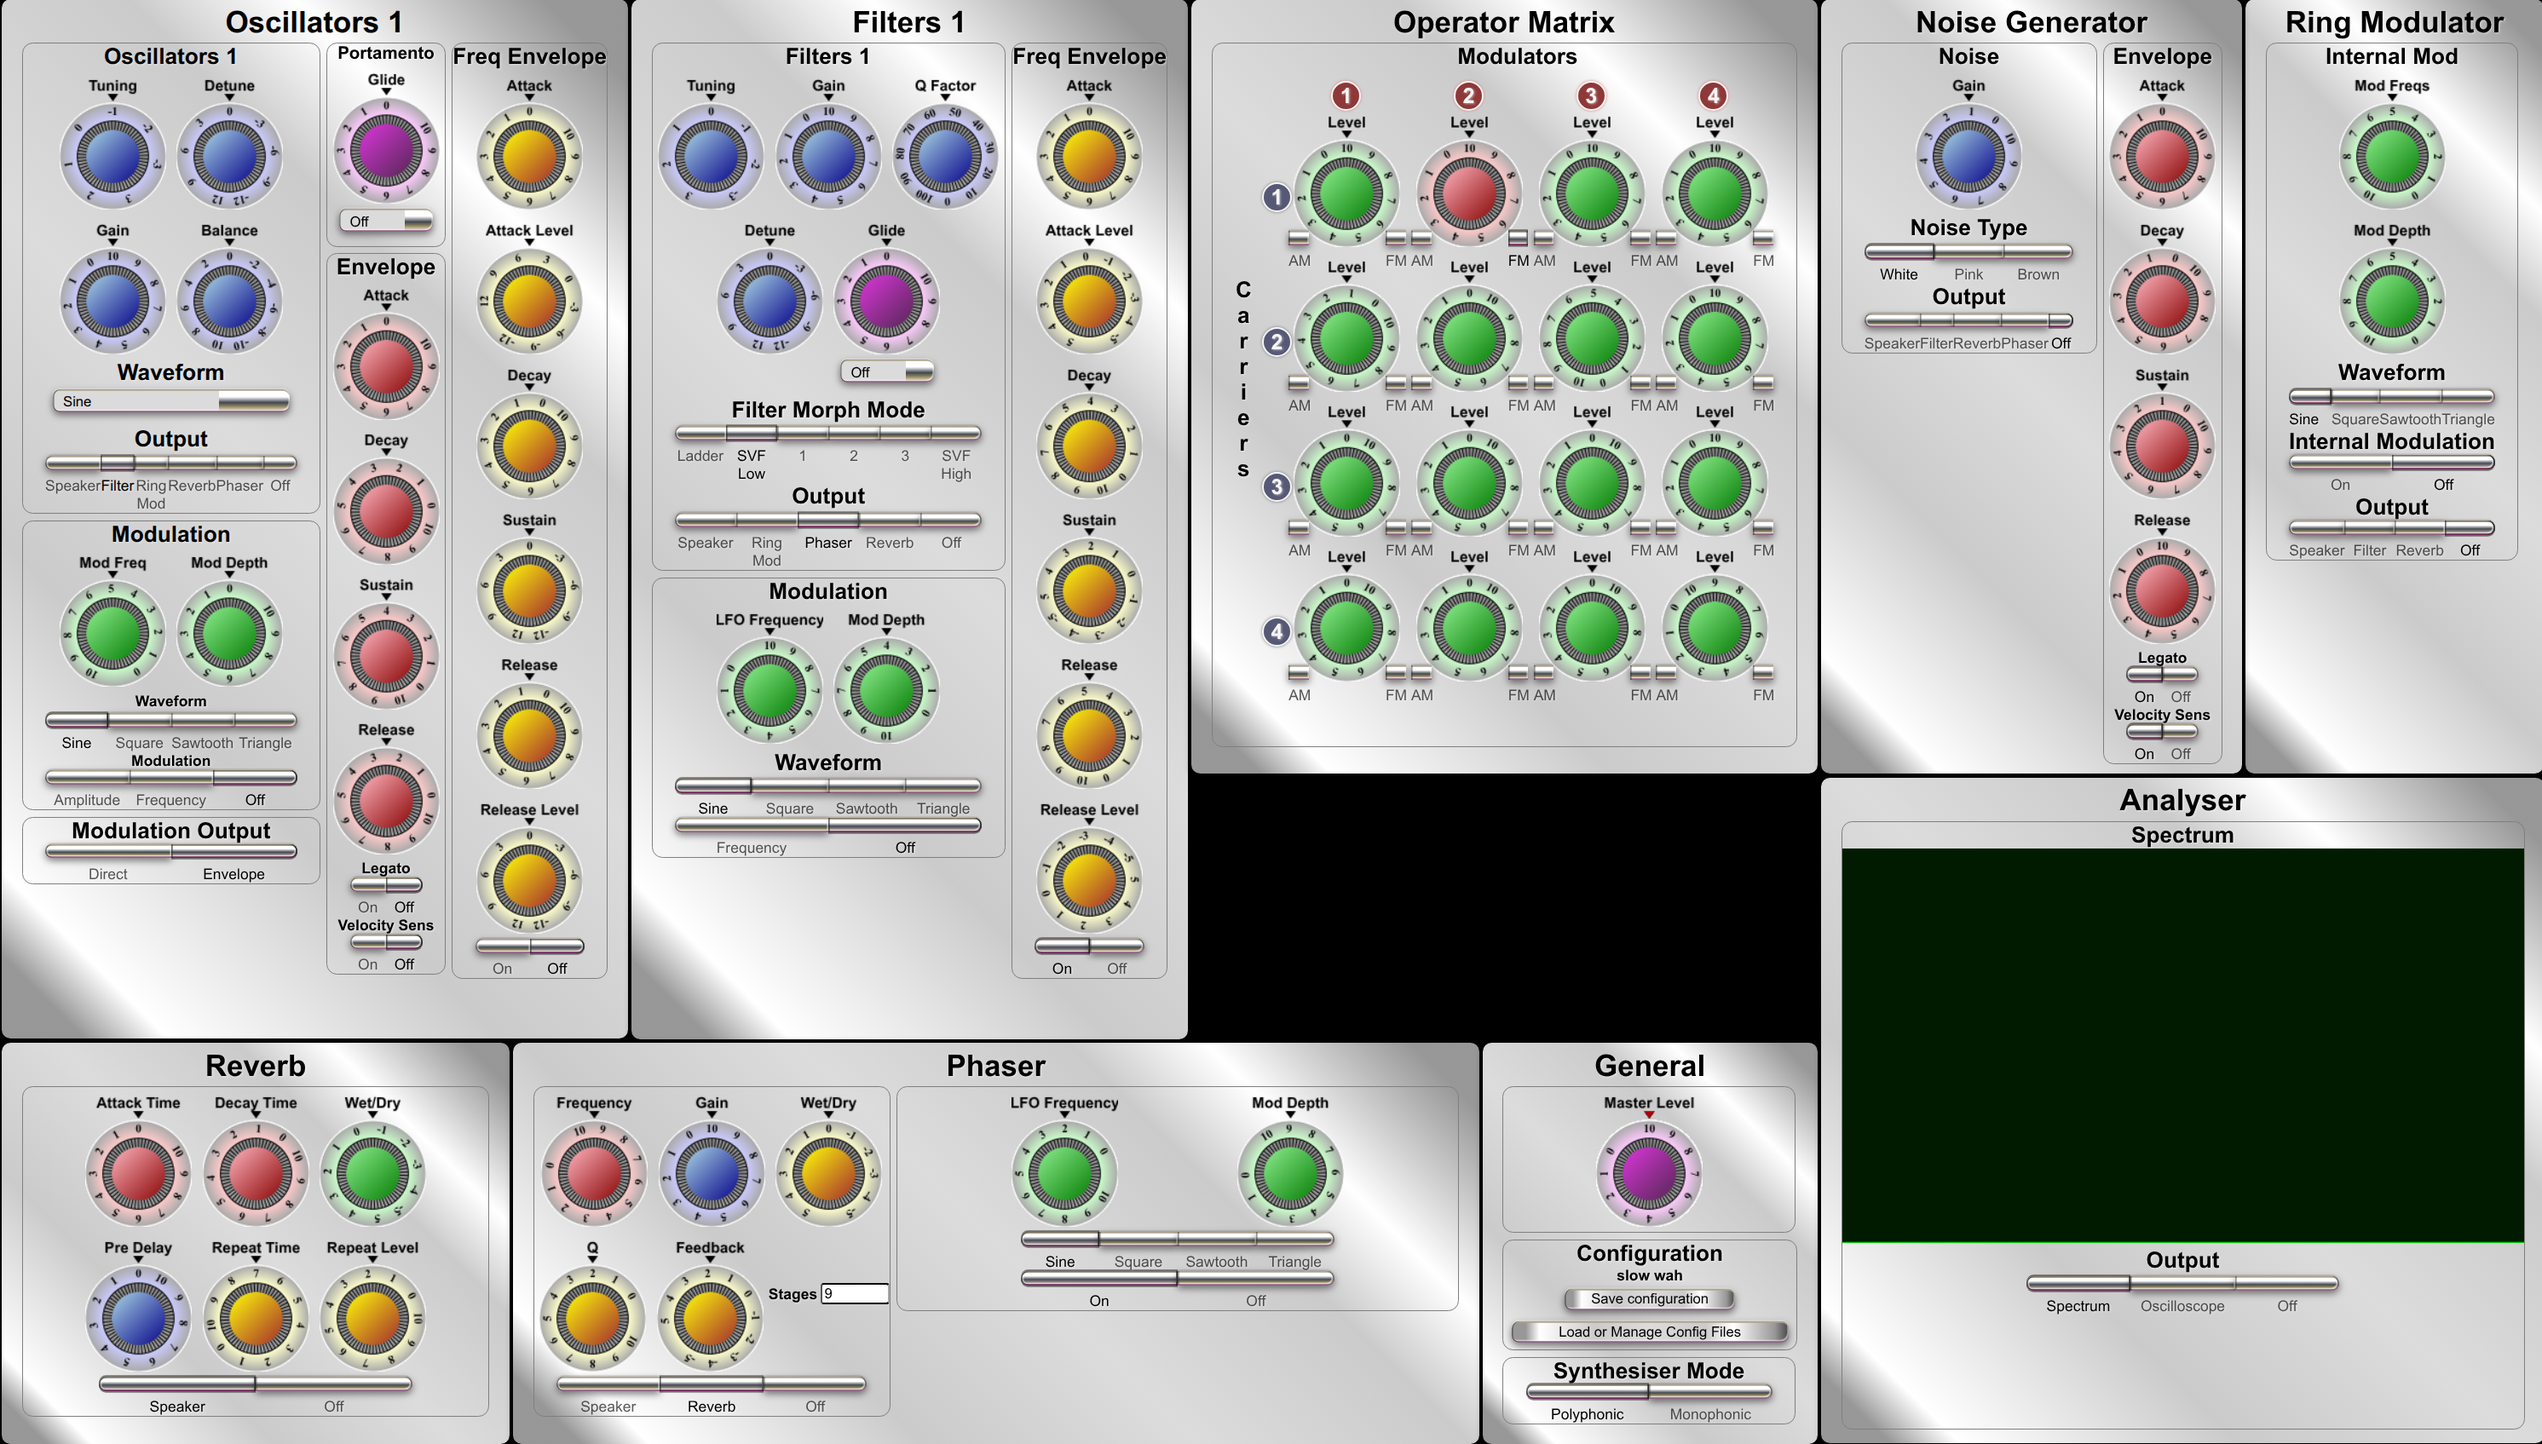
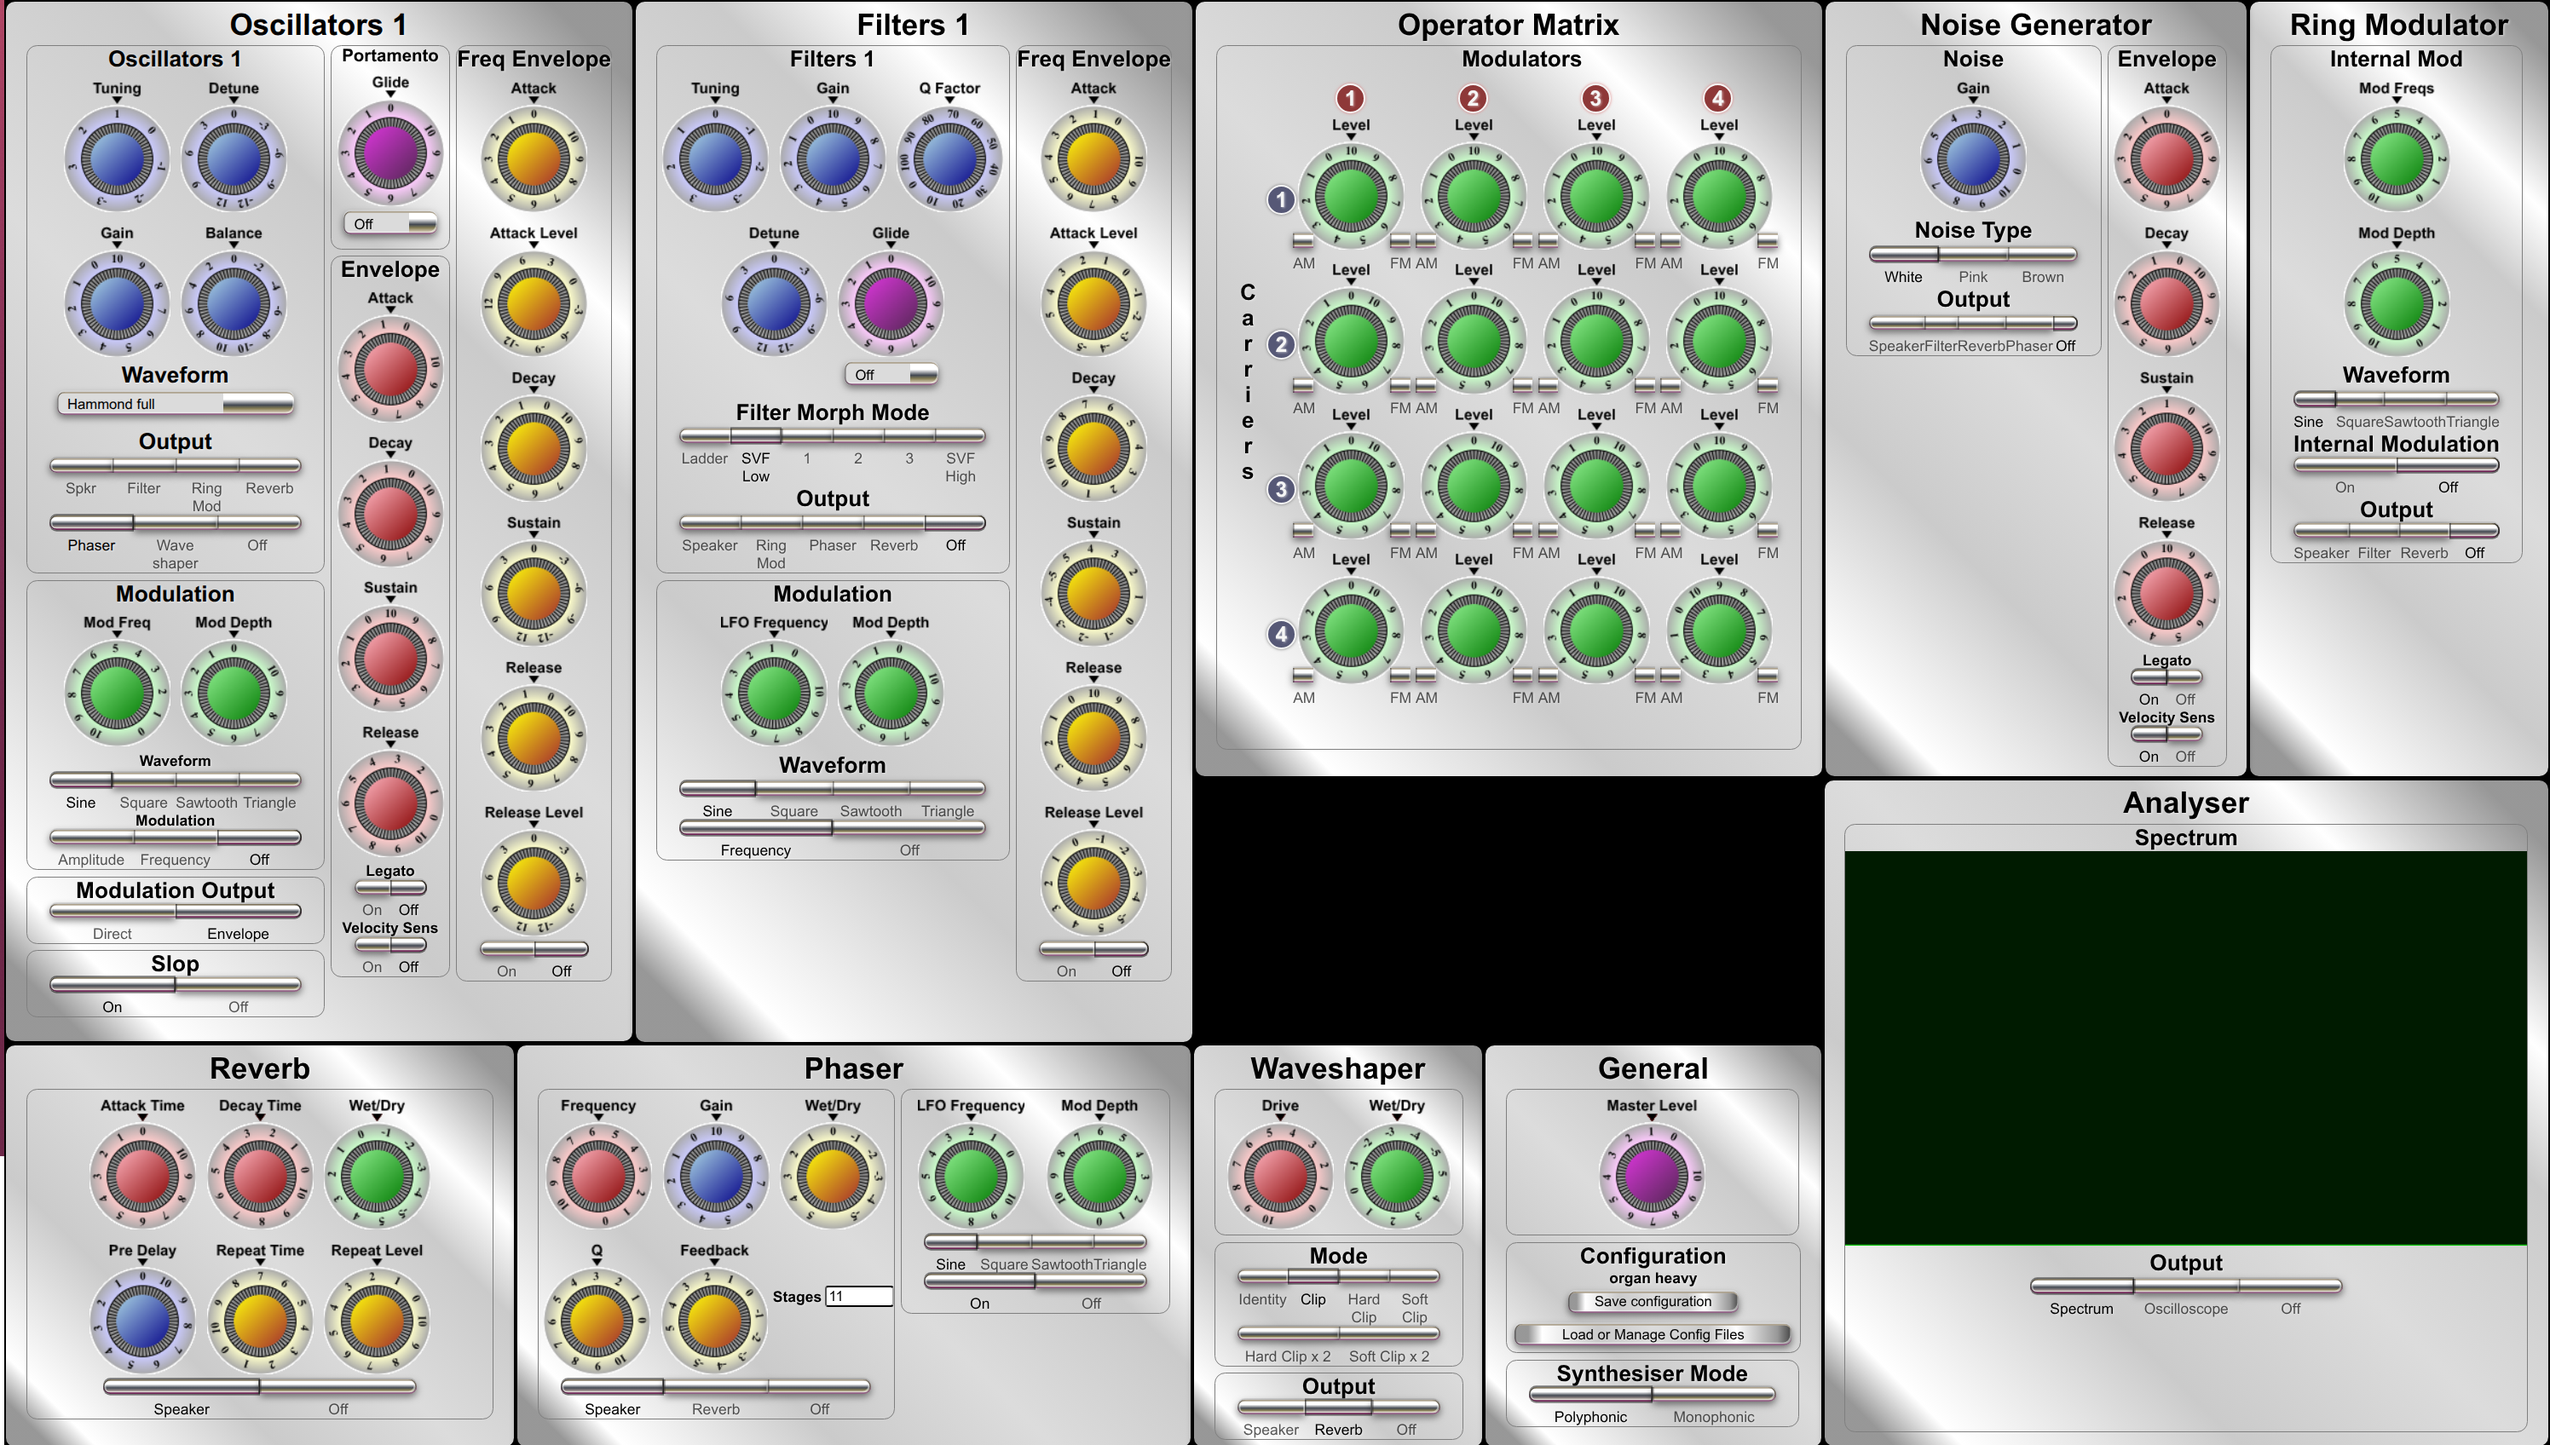
* Update docs to include waveshaper.

Changed region(s): [[0.0, 0.0, 1.0, 1.0], [0.7794, 0.859, 0.9353, 0.9204]]

diff --git a/README.md b/README.md
@@ -345,6 +345,33 @@ stages which can be between 1 and 61,
 | Sine/Square/Sawtooth/Triangle | The LFO waveform.                                                                                                                                                                                                                                         |
 | On/Off                        | Sets the LFO on or off.                                                                                                                                                                                                                                   |
 
+### Waveshaper
+![](README.images/waveshaper.png)
+
+The waveshaper applies various distortion types to the oscillator output. To use the waveshaper, you set one or more oscillator bank outputs to "Wave Shaper",
+set the waveshaper and set the waveshaper as reuired.
+
+####
+Mode settings
+
+##### Drive
+Use this to adjust how far into clipping to drive the signal.
+##### Wet/Dry
+Adjust the balance between input (undistorted) and output (distorted) signal. 5 is fully undistorted, -5 is fully distorted
+and zero is 50/50 balance between the two.
+
+##### Mode
+| Mode          | Description                                                  |
+|---------------|--------------------------------------------------------------|
+| Identity      | Output is linear up to the point where hard clipping occurs. |
+| Clip          | A more gentle onset of clipping                              |
+| Hard Clip     | Earlier onset of clipping with drive adjustment              |
+| Soft Clip     | Rounded clipping using the tanh function                     |
+| Hard Clip x 2 | Hard Clip with wave inversion (2 x frequency)                |
+| Soft Clip x 2 | Soft Clip with wave inversion (2 x frequency)                |
+
+##### Output
+The output can be off, to speaker or reverb.
 
 ### General
 
